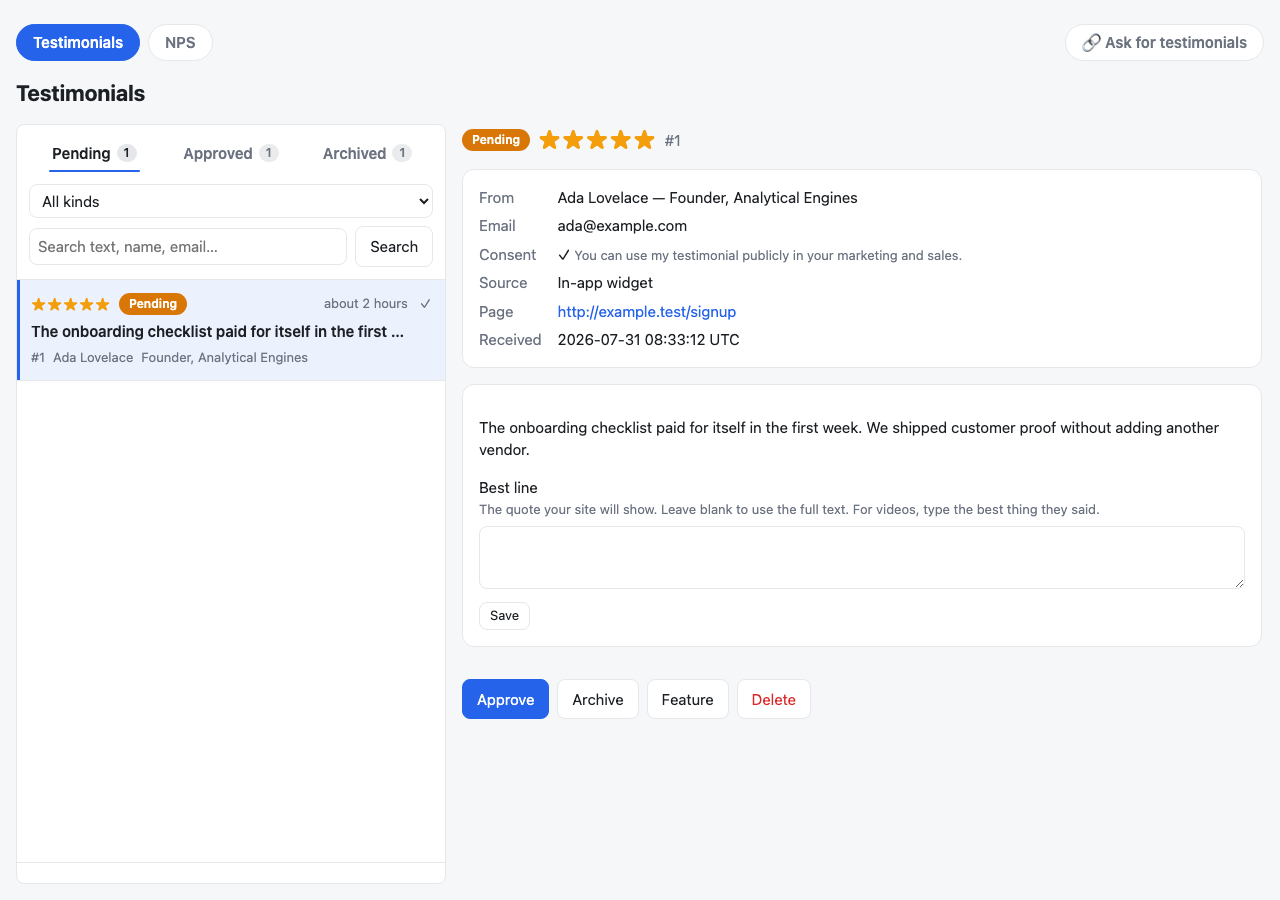
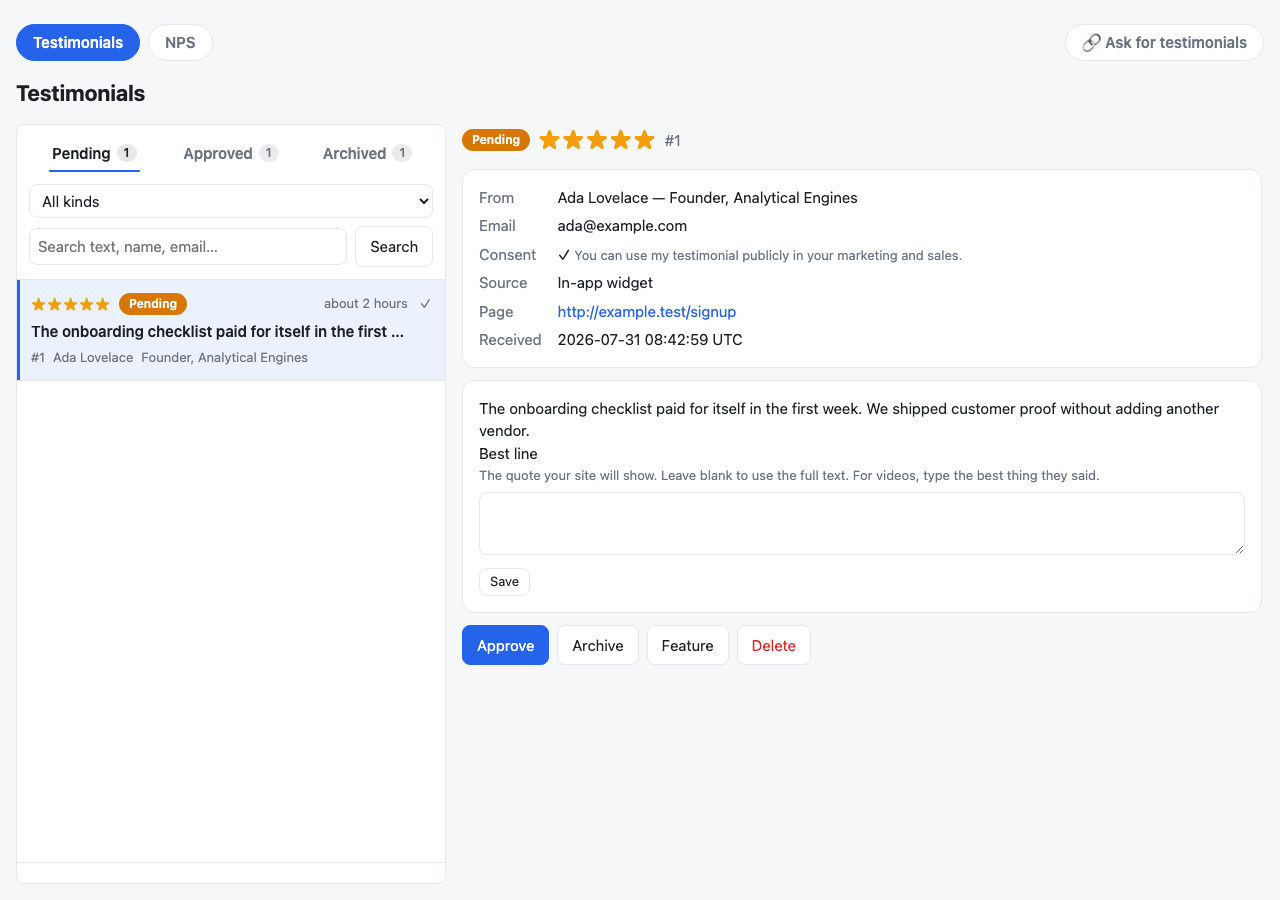
Normalize admin panel spacing

diff --git a/lib/testimonials/dashboard.css b/lib/testimonials/dashboard.css
@@ -68,7 +68,7 @@ button, .button { padding: 8px 14px; border: 1px solid var(--border); border-rad
 button.primary { background: var(--accent); border-color: var(--accent); color: var(--accent-text); }
 button.danger { color: var(--danger); }
 button.small { padding: 3px 10px; font-size: 13px; }
-.message { white-space: pre-wrap; overflow-wrap: anywhere; }
+.message { margin: 0; white-space: pre-wrap; overflow-wrap: anywhere; }
 dl { display: grid; grid-template-columns: max-content 1fr; gap: 6px 16px; margin: 0; }
 dt { color: var(--muted); }
 dd { margin: 0; overflow-wrap: anywhere; }
@@ -88,9 +88,10 @@ img.avatar { width: 48px; height: 48px; border-radius: 50%; object-fit: cover; }
 .best-line-save { margin-top: 8px; }
 .panel-head { flex: 0 0 auto; }
 .panel-head h1 { margin-bottom: 12px; }
-.detail-scroll { min-height: 0; display: flex; flex-direction: column; gap: 16px; }
+.detail-scroll { min-height: 0; display: flex; flex-direction: column; gap: 12px; }
 .testimonial-panel, .nps-panel { min-width: 0; display: flex; flex-direction: column; }
 .testimonial-panel .actions { flex: 0 0 auto; }
+.testimonial-panel .detail-scroll > .actions { margin: 0; }
 
 /* Desktop dashboard: queue on the left, selected record on the right. */
 .tm-index, .tm-index .container,
